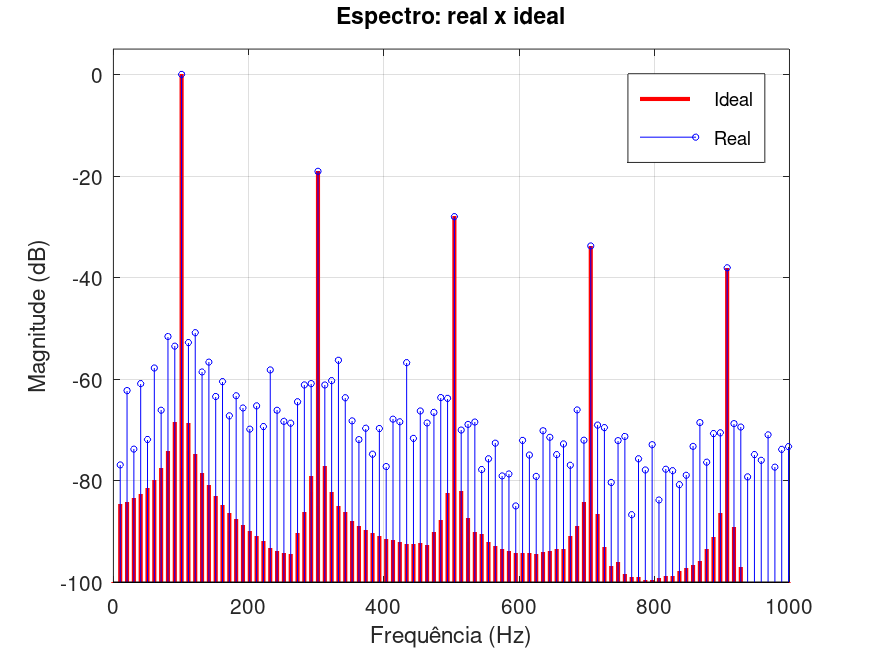
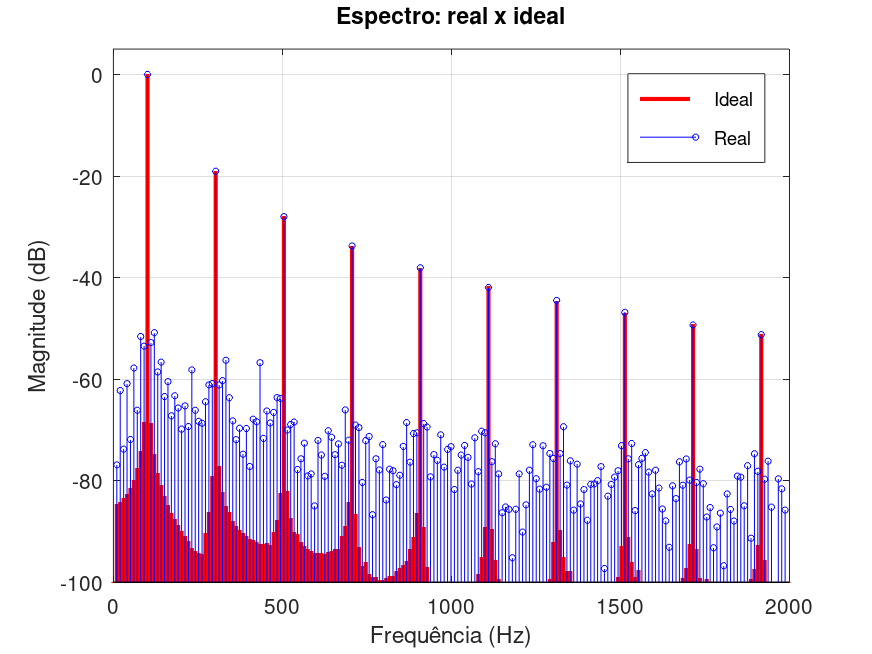
Visualização de um possivel aliasing

diff --git a/aliasing_triangular_topo_plano.m b/aliasing_triangular_topo_plano.m
@@ -1,0 +1,104 @@
+% Demonstração de amostragem de TOPO PLANO (PAM) com uma onda triangular
+%
+% Cada amostra é mantida constante por um tempo tau (como o sample-and-hold
+% do ADC). No espectro isso aparece como:
+%   - réplicas do espectro em torno de fs, 2fs, 3fs...
+%   - todas multiplicadas por uma envoltória sinc(f*tau) (efeito de abertura),
+%     que zera em f = 1/tau
+% O aliasing continua dependendo só de fs: com fs baixa, as réplicas invadem
+% a faixa 0..fs/2 e criam picos em frequências que a triangular não tem.
+clc; clear; close all;
+pkg load signal                          % função sawtooth
+
+f     = 100;                             % frequência da triangular (Hz)
+FSIM  = 300000;                          % taxa da "simulação analógica" (Hz)
+CICLO = 0.5;                             % tau = CICLO*Ts
+PISO  = -60;                             % piso do espectro (dB)
+
+% Casos: fs (Hz), janela de tempo mostrada (ms), xlim do espectro (Hz), nome
+casos = { 10000, 2.5, 1000, 'Sem aliasing'; ...
+            750, 30,  1500, 'Com aliasing'};
+
+t = (0:FSIM-1)/FSIM;                     % 1 s de "sinal analógico"
+x = sawtooth(2*pi*f*t, 0.5);             % triangular de -1 a 1
+
+figure('position', [80 80 1300 750]);
+for i = 1:2
+  [fs, janela, fMax, nome] = casos{i,:};
+  L   = FSIM/fs;                         % pontos da simulação por período Ts
+  M   = round(CICLO*L);                  % pontos em que o pulso fica "ligado"
+  tau = M/FSIM;                          % largura do pulso (s)
+
+  % --- Topo plano: repete o valor da amostra por tau, depois zero ---
+  pos  = mod(0:FSIM-1, L);               % posição dentro de cada Ts
+  base = (0:FSIM-1) - pos;               % índice do instante de amostragem
+  xp   = x(base + 1) .* (pos < M);       % sinal PAM de topo plano
+
+  %% ---------- Tempo ----------
+  subplot(2,2,2*i-1);
+  mostra = t <= janela/1e3;
+  amostr = mostra & pos == 0;
+  plot(t(mostra)*1e3, x(mostra), 'k', 'linewidth', 1.2); hold on;
+  plot(t(mostra)*1e3, xp(mostra), 'b', 'linewidth', 1.2);
+  stem(t(amostr)*1e3, x(amostr), 'r', 'filled', 'markersize', 4, 'linestyle', 'none');
+  grid on; box on;
+  xlim([0 janela]);
+  if i == 1
+    ylim([-1.1 -0.4]);                   % zoom no começo da subida
+  else
+    ylim([-1.2 1.2]);
+  end
+  xlabel('Tempo (ms)'); ylabel('Amplitude');
+  title(sprintf('%s: fs = %d Hz, \\tau = Ts/2 = %.2f ms', nome, fs, tau*1e3));
+  if i == 1
+    legend('Analógico', 'Topo plano', 'Amostras', 'location', 'northwest');
+    text(0.05, -0.43, sprintf('(zoom: %.1f ms, %d amostras)', janela, sum(amostr)), ...
+         'verticalalignment', 'top');
+  end
+
+  %% ---------- Espectro ----------
+  X  = abs(fft(xp - mean(xp)));
+  X  = 20*log10(X/max(X) + eps);         % 0 dB = fundamental
+  fr = 0:FSIM-1;                         % Hz (1 s de sinal -> resolução de 1 Hz)
+
+  % Separa os picos em três grupos
+  pico    = fr <= fMax & X > PISO;
+  impar   = mod(fr, 2*f) == f;           % 100, 300, 500... (o que a triangular tem)
+  abaixo  = fr <= fs/2;
+  certo   = pico & abaixo & impar;       % harmônica no lugar certo
+  falso   = pico & abaixo & ~impar;      % alias dentro de 0..fs/2
+  replica = pico & ~abaixo;              % acima de Nyquist (réplicas)
+
+  subplot(2,2,2*i);
+  h = []; rot = {};
+  if any(replica)
+    h(end+1) = stem(fr(replica), X(replica), 'color', [0.6 0.6 0.6], ...
+                    'filled', 'markersize', 3, 'basevalue', PISO); hold on;
+    rot{end+1} = 'Réplicas (acima de fs/2)';
+  end
+  h(end+1) = stem(fr(certo), X(certo), 'b', 'filled', 'markersize', 4, 'basevalue', PISO); hold on;
+  rot{end+1} = 'Harmônicas da triangular';
+  if any(falso)
+    h(end+1) = stem(fr(falso), X(falso), 'r', 'filled', 'markersize', 4, 'basevalue', PISO);
+    rot{end+1} = 'Picos falsos (aliasing)';
+  end
+
+  if fs/2 < fMax                         % Nyquist e envoltória só no caso 2
+    fEnv = linspace(1, fMax, 1000);
+    env  = 20*log10(abs(sinc(fEnv*tau))/abs(sinc(f*tau)) + eps);
+    h(end+1) = plot(fEnv, env, 'm--', 'linewidth', 1.2);
+    rot{end+1} = 'Envoltória sinc(f\tau)';
+    h(end+1) = plot([fs/2 fs/2], [PISO 5], 'k:', 'linewidth', 1.5);
+    rot{end+1} = sprintf('Nyquist (%d Hz)', fs/2);
+  end
+
+  grid on; box on;
+  xlim([0 fMax]); ylim([PISO 5]);
+  xlabel('Frequência (Hz)'); ylabel('Magnitude (dB)');
+  if i == 1
+    title('Espectro: só as harmônicas ímpares (réplicas em torno de 10 kHz)');
+  else
+    title('Espectro: réplicas em fs \pm 100 Hz e picos falsos abaixo de fs/2');
+  end
+  legend(h, rot, 'location', 'northeast');
+end

diff --git a/Problema2.m b/Problema2.m
@@ -67,7 +67,7 @@ PASSO_FASE        = 0.01; % resolução da busca inicial de fase (fração do pe
 % --- Ajustes dos gráficos ---
 JANELA_TEMPO_MS = 30;     % trecho mostrado na visão geral (ms)
 MEIA_JANELA     = 8;      % zoom: amostras antes/depois do ponto central
-F_MAX_GRAFICO   = 1000;   % limite do eixo de frequência (Hz)
+F_MAX_GRAFICO   = 2000;   % limite do eixo de frequência (Hz)
 PISO_DB         = -100;   % piso dos gráficos em dB
 N_BORDA         = 8;      % códigos mostrados no início/fim da curva de transferência
 PERIODOS_ENTRADA = 3;     % períodos mostrados na figura de entrada
@@ -321,10 +321,9 @@ offsetV   = vTransicao(1) - vTransIdeal(1);
 offsetLsb = offsetV/Q;
 
 % --- 5.5 Ganho: última transição, já sem o offset, x ideal ---
-% Em LSB (definição do datasheet) e em % (inclinação real x ideal).
+% Em LSB (definição do datasheet).
 ganhoLsb = ((vTransicao(end) - offsetV) - vTransIdeal(end))/Q;
 qReal    = (vTransicao(end) - vTransicao(1))/(COD_MAX - 1);   % degrau médio real
-ganhoPct = (qReal/Q - 1)*100;
 
 % --- 5.6 DNL (códigos 1..254): largura de cada degrau / degrau médio - 1 ---
 % Usar o degrau médio real (e não Q) remove offset e ganho da DNL.
@@ -398,7 +397,7 @@ hold on;
 stairs(vTransIdeal(fimCod), fimCod, 'r--');
 grid on;
 xlabel('Entrada (V)');
-title(sprintf('Ganho: %.2f LSB (%.2f%%)', ganhoLsb, ganhoPct));
+title(sprintf('Ganho: %.2f LSB', ganhoLsb));
 print(6, 'fig6_offset_ganho.png', '-dpng', RESOLUCAO_FIG);
 
 % --- Figura: monotonicidade nas subidas ---
@@ -417,11 +416,12 @@ print(7, 'fig7_monotonicidade.png', '-dpng', RESOLUCAO_FIG);
 %% ===================== 6) RESUMO ==========================================
 printf('\n--- Erros estáticos (1 LSB = %.2f mV) ---\n', Q*1e3);
 printf('Offset:            %+.2f LSB\n', offsetLsb);
-printf('Ganho:             %+.2f LSB (%+.2f %%)\n', ganhoLsb, ganhoPct);
+printf('Ganho:             %+.2f LSB\n', ganhoLsb);
 printf('DNL:               %+.2f a %+.2f LSB\n', min(dnl), max(dnl));
 printf('INL:               %+.2f a %+.2f LSB\n', min(inl), max(inl));
 printf('Códigos ausentes:  %d\n', numel(ausentes));
-printf('Monotônico:        %s (%d quedas)\n', ifelse_str(monotonico), quedas);
+if monotonico, txt = 'sim'; else, txt = 'não'; end
+printf('Monotônico:        %s (%d quedas)\n', txt, quedas);
 printf('Amostras/código:   %.1f (incerteza da DNL ~ %.2f LSB)\n', ...
        mean(histograma(2:COD_MAX)), 1/sqrt(mean(histograma(2:COD_MAX))));
 printf('\n--- Características dinâmicas ---\n');

diff --git a/aliasing_triangular_ideal.m b/aliasing_triangular_ideal.m
@@ -1,0 +1,61 @@
+% Demonstração simples de aliasing no ESPECTRO de uma onda triangular
+%
+% A triangular só tem harmônicas ÍMPARES: 100, 300, 500, 700, 900 Hz...
+% Se fs/2 (Nyquist) fica abaixo de alguma delas, essa harmônica "dobra"
+% e aparece numa frequência errada.
+clc; clear; close all;
+pkg load signal                          % função sawtooth
+
+f = 100;                                 % frequência da triangular (Hz)
+
+% sawtooth(x, 0.5) gera uma triangular de -1 a 1
+tri = @(t) sawtooth(2*pi*f*t, 0.5);
+
+% Caso 1: SEM aliasing (Nyquist = 5000 Hz, bem acima das harmônicas visíveis)
+fs1 = 10000;
+% Caso 2: COM aliasing (Nyquist = 375 Hz: 500, 700, 900 Hz... dobram)
+fs2 = 750;
+
+fsList  = [fs1 fs2];
+titulos = {'Sem aliasing', 'Com aliasing'};
+
+figure;
+for i = 1:2
+  fs = fsList(i);
+  n  = 0:1/fs:1-1/fs;                    % 1 s de sinal -> resolução de 1 Hz
+  x  = tri(n);
+
+  % --- Tempo: amostras (primeiros 30 ms) ---
+  subplot(2,2,2*i-1);
+  mostra = n <= 0.03;
+  stem(n(mostra)*1e3, x(mostra), 'filled', 'markersize', 3);
+  grid on;
+  ylim([-1.2 1.2]);
+  xlabel('Tempo (ms)'); ylabel('Amplitude');
+  title(sprintf('%s: fs = %d Hz', titulos{i}, fs));
+
+  % --- Espectro ---
+  X    = abs(fft(x - mean(x)));          % espectro (sem o nível DC)
+  X    = 20*log10(X/max(X) + eps);       % em dB (0 dB = fundamental)
+  freq = (0:numel(x)-1)*fs/numel(x);     % eixo de frequência (Hz)
+
+  subplot(2,2,2*i);
+  stem(freq, X, 'filled', 'markersize', 3, 'basevalue', -60);
+  grid on;
+  ylim([-60 5]);
+  xlabel('Frequência (Hz)'); ylabel('Magnitude (dB)');
+  if i == 1
+    xlim([0 1000]);
+    title('Só harmônicas ímpares (100, 300, 500...)');
+  else
+    xlim([0 fs/2]);
+    title('Picos falsos em 50, 150, 200, 250, 350 Hz');
+  end
+end
+
+% Onde cada harmônica aparece depois de amostrada a fs2
+printf('Harmônica (Hz)  ->  aparece em (Hz) com fs = %d Hz\n', fs2);
+for k = 1:2:13
+  fk = k*f;
+  printf('%8d        ->  %6.0f\n', fk, abs(fk - fs2*round(fk/fs2)));
+end
